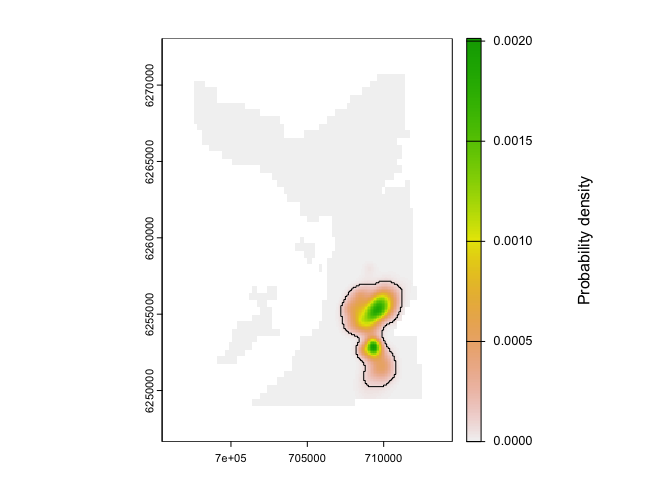
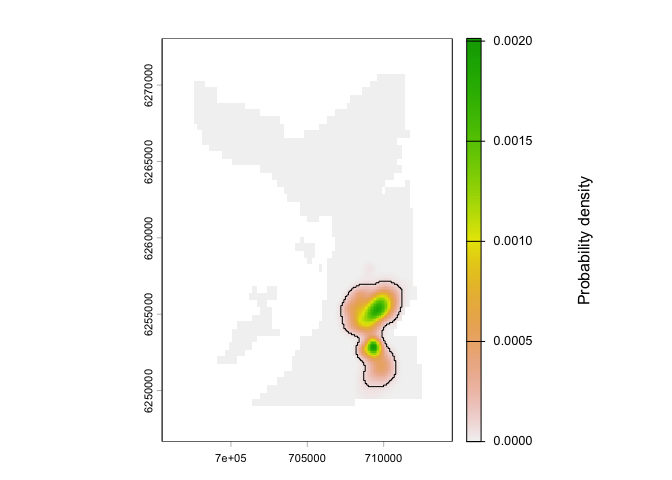
Update citation & render READMEs

diff --git a/README.md b/README.md
@@ -13,7 +13,7 @@ developed.](https://www.repostatus.org/badges/latest/active.svg)](https://www.re
 experimental](https://img.shields.io/badge/lifecycle-experimental-orange.svg)](https://lifecycle.r-lib.org/articles/stages.html#experimental)
 [![CRAN
 status](https://www.r-pkg.org/badges/version/patter)](https://CRAN.R-project.org/package=patter)
-![Coverage](https://img.shields.io/badge/coverage-83%25-orange)
+![Coverage](https://img.shields.io/badge/coverage-59%25-red)
 [![R-CMD-check](https://github.com/edwardlavender/patter/actions/workflows/R-CMD-check.yaml/badge.svg)](https://github.com/edwardlavender/patter/actions/workflows/R-CMD-check.yaml)
 <!-- badges: end -->
 
@@ -200,7 +200,7 @@ On Linux, this step may require system libraries (see below).
       ```
 
 > **Note:** Install a recent `Julia` version. This README was last built
-> on 2025-04-18 with Julia 1.11.5.
+> on 2025-12-01 with Julia 1.12.2.
 
 5.  **Setup JuliaCall.** The next step is to set up `JuliaCall`, which
     provides the integration between `R` and `Julia`.
@@ -478,7 +478,7 @@ essential packages:
 
 ``` r
 library(patter)
-#> This is {patter} v.2.0.0. For an overview, see `?patter`. For support, raise an issue at https://github.com/edwardlavender/patter/issues.
+#> This is {patter} v.2.0.1. For an overview, see `?patter`. For support, raise an issue at https://github.com/edwardlavender/patter/issues.
 library(data.table)
 library(dtplyr)
 library(dplyr, warn.conflicts = FALSE)
@@ -650,10 +650,10 @@ head(fwd$diagnostics)
 fwd$callstats
 #>              timestamp         routine n_particle n_iter    loglik convergence
 #>                 <POSc>          <char>      <int>  <int>     <num>      <lgcl>
-#> 1: 2025-04-18 16:11:53 filter: forward      10000      1 -3556.524        TRUE
+#> 1: 2025-12-01 16:55:04 filter: forward      10000      1 -3556.524        TRUE
 #>        time
 #>       <num>
-#> 1: 7.415571
+#> 1: 7.981062
 
 # Backward run
 args$.yobs      <- yobs_bwd
@@ -682,10 +682,10 @@ head(bwd$diagnostics)
 bwd$callstats
 #>              timestamp          routine n_particle n_iter    loglik convergence
 #>                 <POSc>           <char>      <int>  <int>     <num>      <lgcl>
-#> 1: 2025-04-18 16:12:00 filter: backward      10000      1 -3558.672        TRUE
+#> 1: 2025-12-01 16:55:12 filter: backward      10000      1 -3558.672        TRUE
 #>        time
 #>       <num>
-#> 1: 1.042987
+#> 1: 1.062307
 ```
 
 ## Particle smoother
@@ -699,6 +699,7 @@ and after each step).
 # Set `vmap` for probability calculations
 # * Use file path rather on Linux 
 set_vmap(.map = map, .mobility = mobility)
+#> Warning: PROJ: proj_create_from_name: Cannot find proj.db (GDAL error 1)
 
 # Run smoother 
 smo <- pf_smoother_two_filter(.n_particle = 750L, .n_sim = 100L)
@@ -725,10 +726,10 @@ head(smo$diagnostics)
 smo$callstats
 #>              timestamp              routine n_particle n_iter loglik
 #>                 <POSc>               <char>      <int>  <int>  <num>
-#> 1: 2025-04-18 16:12:02 smoother: two-filter        750     NA    NaN
+#> 1: 2025-12-01 16:55:14 smoother: two-filter        750     NA    NaN
 #>    convergence     time
 #>         <lgcl>    <num>
-#> 1:        TRUE 3.355024
+#> 1:        TRUE 3.343348
 ```
 
 ## Mapping
@@ -744,6 +745,7 @@ ud <- map_dens(.map   = map,
                .coord = smo$states,
                .sigma = bw.h)$ud
 #> Observation window is gridded.
+#> Warning: PROJ: proj_create_from_database: Cannot find proj.db (GDAL error 1)
 
 # Add home range
 map_hr_home(ud, .add = TRUE)
@@ -797,16 +799,16 @@ evolution (<edward.lavender@eawag.ch>).
 - Lavender, E., Scheidegger, A., Albert, C., Biber, S. W., Illian, J.,
   Thorburn, J., Smout, S., & Moor, H. (2025). Particle algorithms for
   animal movement modelling in receiver arrays. Methods in Ecology and
-  Evolution, 00, 1–12. <https://doi.org/10.1111/2041-210X.70028>
+  Evolution, 16, 1808–1819. <https://doi.org/10.1111/2041-210X.70028>
 - Lavender, E., Scheidegger, A., Albert, C., Biber, S. W., Illian, J.,
   Thorburn, J., Smout, S., & Moor, H. (2025). patter: Particle
   algorithms for animal tracking in R and Julia. Methods in Ecology and
-  Evolution, 00, 1–8. <https://doi.org/10.1111/2041-210X.70029>
+  Evolution, 16, 1609–1616. <https://doi.org/10.1111/2041-210X.70029>
 - Lavender, E., Scheidegger, A., Albert, C., Biber, S. W., Brodersen,
   J., Aleynik, D., Cole, G., Dodd, J., Wright, P. J., Illian, J., James,
   M., Smout, S., Thorburn, J., & Moor, H. (2025). Animal tracking with
-  particle algorithms for conservation. bioRxiv.
-  <https://doi.org/10.1101/2025.02.13.638042>
+  particle algorithms informs protected area design. Science Advances,
+  11, eadx0255. <https://doi.org/10.1126/sciadv.adx0255>
 
 For the `BibTex`:
 
@@ -816,8 +818,8 @@ For the `BibTex`:
   title   = {Particle algorithms for animal movement modelling in receiver arrays},
   journal = {Methods in Ecology and Evolution},
   year    = {2025},
-  volume  = {00},
-  pages   = {1--12},
+  volume  = {16},
+  pages   = {1808--1819},
   doi     = {10.1111/2041-210X.70028}
 }
 ```
@@ -828,8 +830,8 @@ For the `BibTex`:
   title   = {patter: Particle algorithms for animal tracking in R and Julia},
   journal = {Methods in Ecology and Evolution},
   year    = {2025},
-  volume  = {00},
-  pages   = {1--8},
+  volume  = {16},
+  pages   = {1609--1616},
   doi     = {10.1111/2041-210X.70029}
 }
 ```
@@ -837,10 +839,12 @@ For the `BibTex`:
 ``` bibtex
 @Article{Lavender2025c,
   author  = {Lavender, Edward and Scheidegger, Andreas and Albert, Carlo and Biber, Stanisław W. and Brodersen, Jakob and Aleynik, Dmitry and Cole, Georgina and Dodd, Jane and Wright, Peter J. and Illian, Janine and James, Mark and Smout, Sophie and Thorburn, James and Moor, Helen},
-  title   = {Animal tracking with particle algorithms for conservation},
-  journal = {bioRxiv},
+  title   = {Animal tracking with particle algorithms informs protected area design},
+  journal = {Science Advances},
   year    = {2025},
-  doi     = {10.1101/2025.02.13.638042}
+  volume  = {11},
+  pages   = {eadx0255},
+  doi     = {10.1126/sciadv.adx0255}
 }
 ```
 
